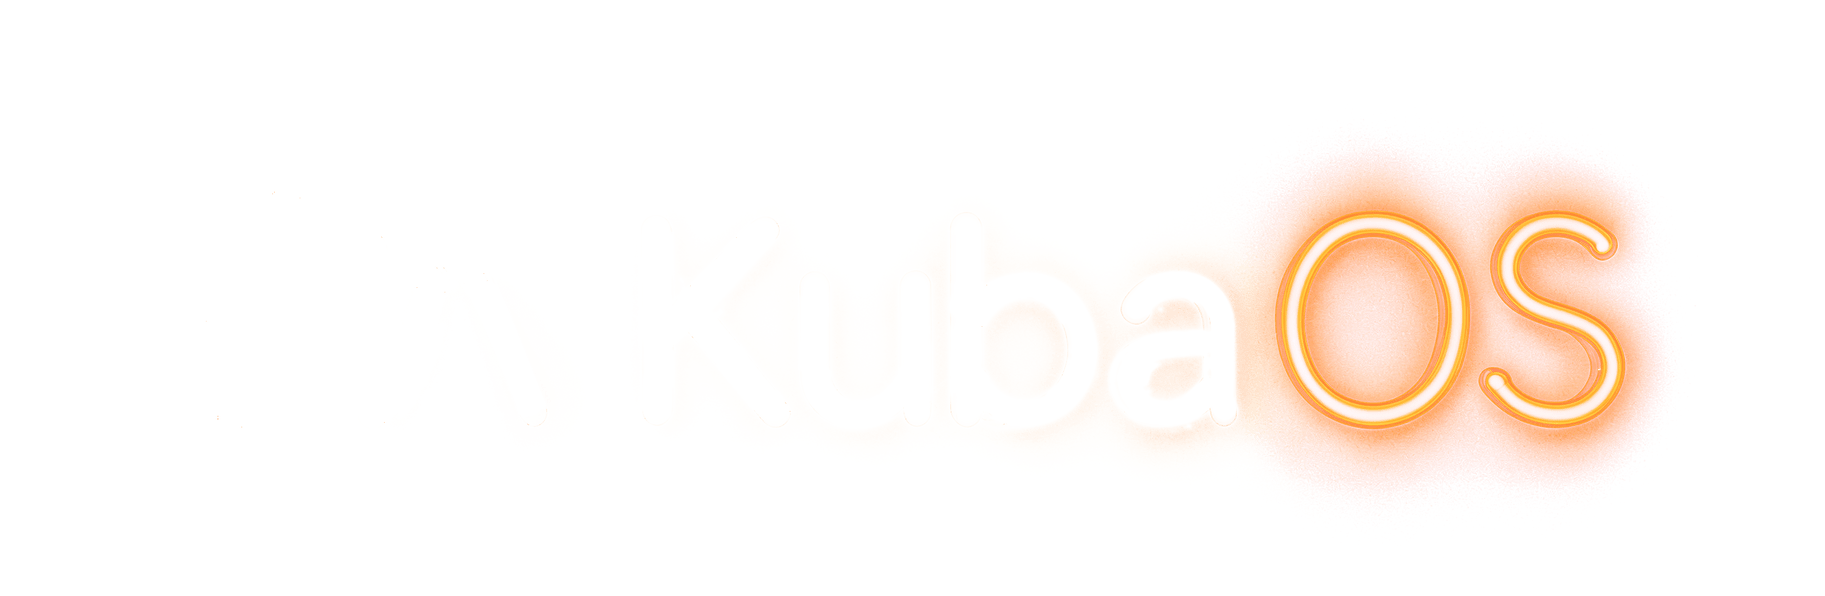
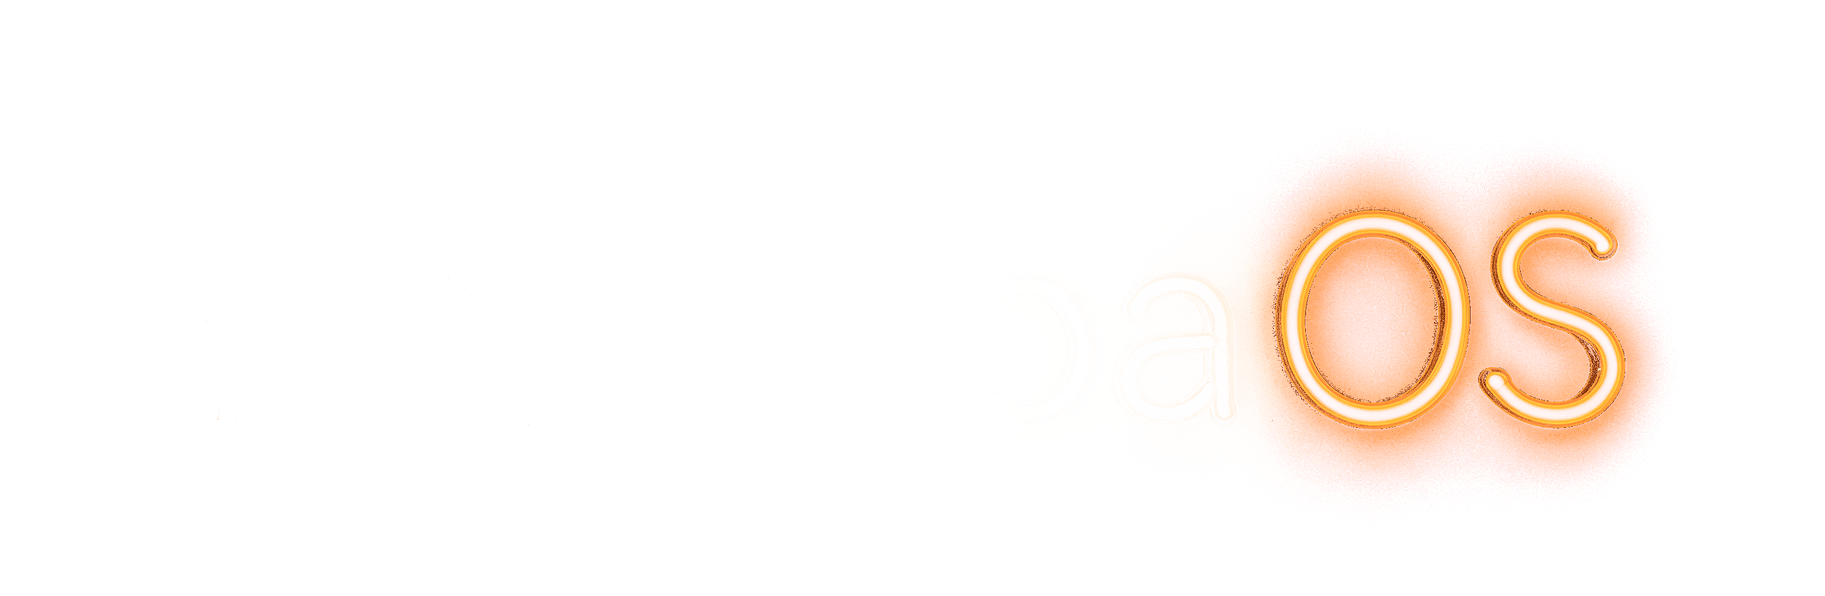
fix(boot): the sign's switch-on layers keep a lit group's glow whole
A lit group's glow stopped short of its dark neighbours: the wall beside a
dead tube went to that tube, so ク alone showed dark patches round バ. The
share of the glow now follows the falloff measured on the lit and the off
photo, and the wall's colour.

The layers no longer carry the splash's background, so they stack to the lit
sign over any colour.

diff --git a/branding/neon.py b/branding/neon.py
@@ -66,18 +66,20 @@ FADE_Y = 185
 
 # The switch-on order; kubaos.script strikes the groups in this order.
 GROUPS = ("ku", "ba", "dakuten", "kuba", "os")
-# How far a group's share of the wall glow reaches past its glass, in the
-# photo's pixels. One Gaussian would hand the glow from one group to the next
-# over a few pixels (the ratio of two Gaussians is a steep logistic), which
-# shows as a seam when one of them is dark. Summed over growing radii the
-# tails fall off slowly, so the handover is as wide as the gap between groups.
-GLOW_SIGMAS = (92.0, 245.0, 610.0)
-# How far apart two colours' chromas are before the glow stops counting as
-# the same tube's, squared: the dakuten's blue and the amber are about 0.4
-# apart (no share), "Kuba"'s warm white and the amber about 0.15 (a tenth).
-COLOUR_SPREAD = 0.01
-COLOUR_BLUR = 12.0
-LIKENESS_FLOOR = 0.02
+# The radii a tube's glow is measured over, in the photo's pixels: how the
+# light falls off from the glass is the mix of the glass blurred by each that
+# best gives back the light the lit photo has over the off one.
+GLOW_SIGMAS = (6.0, 16.0, 40.0, 100.0, 245.0)
+# Glass brighter than this has run out of range in the photo and says nothing
+# about how its light falls off.
+CLIPPED = 0.92
+# The wall's grain has colour noise of its own; blurred by this, only the
+# glow's colour is left.
+COLOUR_BLUR = 3.0
+# How sharply a group keeps to light of its own colour: the power its
+# likeness to the wall's colour is raised to. At 6 the amber tubes take a
+# hundredth of the dakuten's blue.
+COLOUR_POWER = 6
 # The dead glass is the off photo at this brightness, so the sign shows
 # faintly before it strikes instead of standing out as a grey sign.
 DEAD_LIGHT = 0.35
@@ -195,47 +197,44 @@ def tube_groups(im: np.ndarray) -> dict[str, np.ndarray]:
     return {g: lit & (np.asarray(Image.fromarray(m).resize((w, h), Image.NEAREST)) > 0.5) for g, m in groups.items()}
 
 
-def glass_mask(tubes: dict[str, np.ndarray], sigma: float) -> np.ndarray:
-    """Every group's glass, softened by `sigma` so its edge isn't jagged."""
-    return np.clip(blur(sum(t.astype(np.float32) for t in tubes.values()), sigma) * 2, 0, 1)
-
-
-def chroma(rgb: np.ndarray) -> np.ndarray:
-    """Colour without brightness: each channel's part of the sum."""
-    return rgb / np.maximum(rgb.sum(axis=-1, keepdims=True), 1e-4)
-
-
-def group_shares(tubes: dict[str, np.ndarray], im: np.ndarray) -> dict[str, np.ndarray]:
+def group_shares(tubes: dict[str, np.ndarray], lit: np.ndarray, off: np.ndarray) -> dict[str, np.ndarray]:
     """Each group's share of every pixel's light, summing to one.
 
-    On the glass the share is the group that owns it. Off the glass it comes
-    from each group's glass blurred wide, so the boundary between two groups
-    follows the tubes' shapes and blends over tens of pixels, weighed by how
-    close the pixel's colour is to the group's: the wall round the dakuten
-    glows blue, and by distance alone ク and バ would light some of that blue
-    before the dakuten strikes.
+    A group's light at a pixel falls off from its glass the way the glow on
+    the wall does, measured on the photos. A falloff steeper than the real one
+    hands the wall next to a dark tube to that tube, and cuts the lit
+    neighbour's glow off around it.
+
+    On the wall a group only takes light of its own colour: the wall round the
+    dakuten glows blue, and by distance alone ク and バ would light some of
+    that blue before the dakuten strikes. In its own glass, which burns white,
+    a group takes whatever is there.
     """
-    glass = glass_mask(tubes, 3.0)
-    sharp = {g: blur(t.astype(np.float32), 3.0) for g, t in tubes.items()}
-    # The wall's grain has colour noise of its own; blurred, only the glow's
-    # colour is left.
-    here = chroma(np.dstack([blur(im[..., c], COLOUR_BLUR) for c in range(3)]))
-    wide = {}
+    gain = np.clip(lit - off, 0, None)
+    unclipped = lit.max(axis=2) < CLIPPED
+    spread = [{g: blur(t.astype(np.float32), s) for g, t in tubes.items()} for s in GLOW_SIGMAS]
+    reach = np.stack([sum(sp.values())[unclipped] for sp in spread], axis=1)
+    use = list(range(len(GLOW_SIGMAS)))
+    # Least squares with no negative part: a radius that would take light
+    # away is left out, and the rest are fitted again.
+    while True:
+        mix = np.linalg.lstsq(reach[:, use], gain.max(axis=2)[unclipped], rcond=None)[0]
+        if (mix >= 0).all():
+            break
+        use.pop(int(np.argmin(mix)))
+    eps = 1e-7
+    light = {g: sum(k * spread[i][g] for i, k in zip(use, mix)) + eps for g in tubes}
+    total = sum(light.values())
+    here = np.dstack([blur(gain[..., c], COLOUR_BLUR) for c in range(3)])
+    here /= np.linalg.norm(here, axis=2, keepdims=True) + 1e-4
+    share = {}
     for g, t in tubes.items():
-        own = chroma(im[t].mean(axis=0))
-        likeness = np.exp(-((here - own) ** 2).sum(axis=-1) / COLOUR_SPREAD)
-        # On the dim wall far from every tube no colour is like any group's,
-        # and the shares would follow noise; the floor hands those pixels back
-        # to distance alone.
-        likeness = LIKENESS_FLOOR + (1 - LIKENESS_FLOOR) * likeness
-        wide[g] = sum(blur(t.astype(np.float32), s) for s in GLOW_SIGMAS) * likeness
-    eps = 1e-6
-    sharp_sum = sum(sharp.values()) + eps
-    wide_sum = sum(wide.values()) + eps
-    return {
-        g: glass * sharp[g] / sharp_sum + (1 - glass) * (wide[g] + eps / len(GROUPS)) / wide_sum
-        for g in tubes
-    }
+        near = (blur(t.astype(np.float32), 16.0) * unclipped)[..., None]
+        own = (gain * near).sum(axis=(0, 1))
+        alike = (here @ (own / np.linalg.norm(own))) ** COLOUR_POWER
+        share[g] = light[g] * (alike + (1 - alike) * (light[g] / total) ** 2)
+    total = sum(share.values())
+    return {g: m / total for g, m in share.items()}
 
 
 def edge_fade(h: int, w: int, fade_x: float, fade_y: float) -> np.ndarray:
@@ -260,8 +259,8 @@ class Sign:
         self.rgb, a = cut_out(im)
         self.fade = edge_fade(*a.shape, FADE_X, FADE_Y)
         self.alpha = a * self.fade
-        self.shares = group_shares(tubes, im)
         self.off = load(OFF)[rows]
+        self.shares = group_shares(tubes, im, self.off)
 
     def tubes_width(self) -> float:
         return TUBES_X[1] - TUBES_X[0]
@@ -281,42 +280,53 @@ class Sign:
     def layers(self) -> dict[str, np.ndarray]:
         """The dead glass, then one layer per group, in drawing order.
 
-        Each group's layer is what turns the splash with the groups before it
-        lit into the splash with it lit too, drawn over the splash's dark at
-        full opacity. Layers that each carried their share of the light as
-        alpha would stack darker than the photo wherever two groups share the
-        glow, since two half-alpha layers over each other don't make a whole.
-        Drawn in order, these add up to the lit sign exactly, so the lit sprite
-        the script swaps to once the sign is on doesn't pop.
+        Each group's layer is what turns the sign with the groups before it
+        lit into the sign with it lit too, drawn over them at full opacity.
+        Layers that each carried their share of the light as alpha would stack
+        darker than the photo wherever two groups share the glow, since two
+        half-alpha layers over each other don't make a whole. Drawn in order,
+        these add up to the lit sign, so the lit sprite the script swaps to
+        once the sign is on doesn't pop. They carry no background of their
+        own, so they do so over any colour the splash draws under them.
         """
-        dead = self.dead()
-        before = over_deep(dead)
-        lit = over_deep(self.lit())
-        out = {"base": dead}
-        share = np.zeros(before.shape[:2], np.float32)
-        start = before
+        dead = premultiplied(self.dead())
+        lit = premultiplied(self.lit())
+        out = {"base": self.dead()}
+        share = np.zeros(dead.shape[:2], np.float32)
+        before = dead
         for g in GROUPS:
             share = share + self.shares[g]
-            after = start + share[..., None] * (lit - start)
+            after = dead + share[..., None] * (lit - dead)
             out[g] = step(before, after)
             before = after
         return out
 
 
-def over_deep(rgba: np.ndarray) -> np.ndarray:
-    """A straight-alpha layer drawn over the splash's dark, as RGB."""
-    deep = np.array(DEEP, np.float32) / 255
-    return rgba[..., :3] * rgba[..., 3:] + deep * (1 - rgba[..., 3:])
+def premultiplied(rgba: np.ndarray) -> np.ndarray:
+    """Colour times alpha: the form in which a mix of two layers, drawn over
+    anything, is the mix of the two drawn over it."""
+    return np.dstack([rgba[..., :3] * rgba[..., 3:], rgba[..., 3]])
 
 
 def step(before: np.ndarray, after: np.ndarray) -> np.ndarray:
-    """The layer that, drawn over `before` at full opacity, gives `after`. Its
-    alpha is the least that reaches `after` from `before`, so where nothing
-    changes it is clear."""
-    gain = np.clip(after - before, 0, None)
-    room = np.maximum(1 - before, 1e-6)
-    a = np.clip((gain / room).max(axis=2), 0, 1)
-    rgb = (after - before * (1 - a[..., None])) / np.maximum(a, 1e-6)[..., None]
+    """The straight-alpha layer that, drawn over `before`, gives `after`, both
+    premultiplied. Its alpha is the least that gets there, so where nothing
+    changes it is clear: enough to let the right amount of the background
+    through, to carry the light the group adds, and to hide what the dead
+    glass has more of than the lit (its grey's blue under an amber tube)."""
+    was, now = before[..., :3], after[..., :3]
+    a = np.clip(
+        np.maximum.reduce(
+            [
+                (after[..., 3] - before[..., 3]) / np.maximum(1 - before[..., 3], 1e-6),
+                ((now - was) / np.maximum(1 - was, 1e-6)).max(axis=2),
+                np.where(was > now + 1 / 255, 1 - now / np.maximum(was, 1e-6), 0).max(axis=2),
+            ]
+        ),
+        0,
+        1,
+    )
+    rgb = (now - was * (1 - a[..., None])) / np.maximum(a, 1e-6)[..., None]
     return np.dstack([np.clip(rgb, 0, 1), a])
 
 

diff --git a/branding/README.md b/branding/README.md
@@ -35,12 +35,13 @@ and the glow they throw on the wall stay and the dark wall goes. For the boot
 splash it also splits the sign into its five groups of tubes, in switch-on
 order: ク, バ, the dakuten, Kuba, OS. Each tube is a connected piece of lit
 glass and goes to its group by where its centre falls; the dakuten is the
-blue one. A group's share of the wall glow comes from its glass blurred wide,
-weighed by how close the wall's colour is to the group's, so a lit group next
-to a dark one fades out across the wall instead of ending in a seam, and the
-blue round the dakuten stays dark until it strikes. The layers are the steps
-between the splash with one more group lit, so drawn in order they add up to
-the lit sign exactly.
+blue one. A group's share of the wall glow follows how the light falls off
+from its glass, measured on the lit and the off photo, and how close the wall's
+colour is to the group's, so a lit group's glow carries on past a dark
+neighbour instead of stopping short of it, and the blue round the dakuten
+stays dark until it strikes. The layers are the steps between the sign with
+one more group lit and carry no background, so drawn in order they add up to
+the lit sign over whatever colour is under them.
 
 ## Files
 
